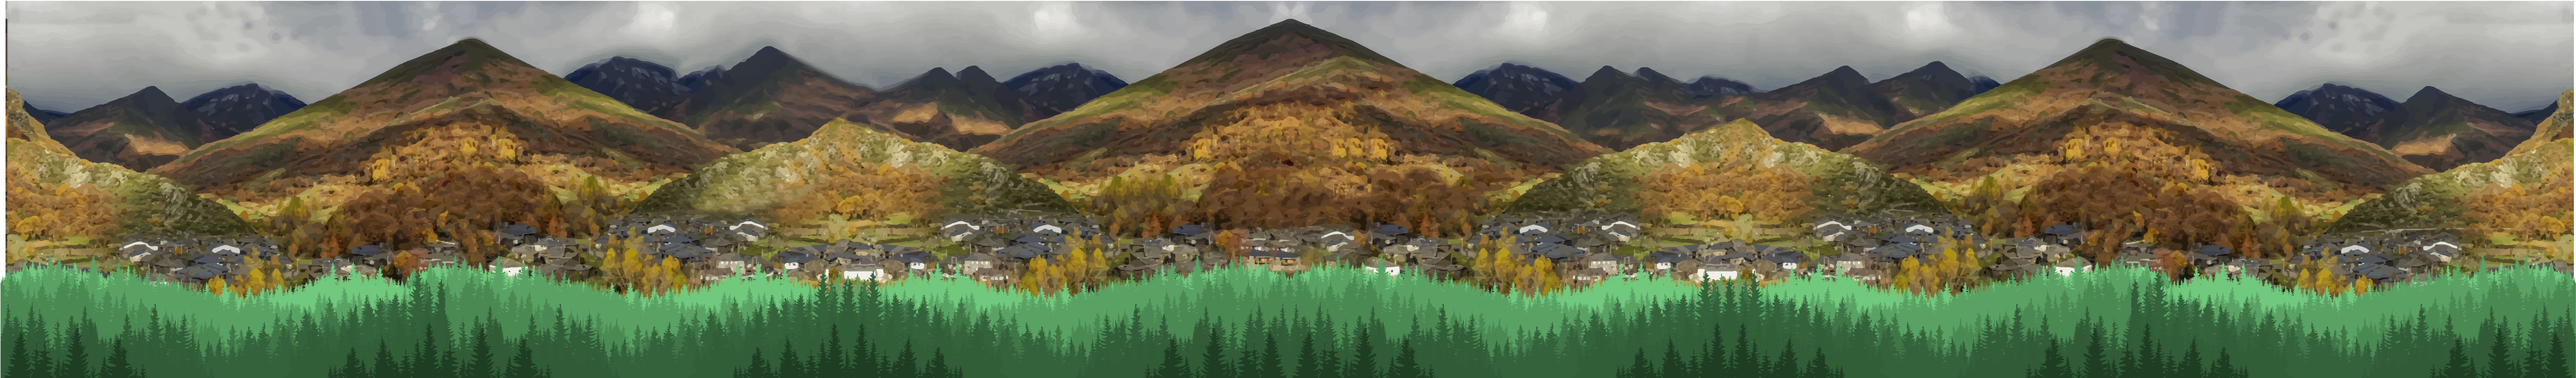
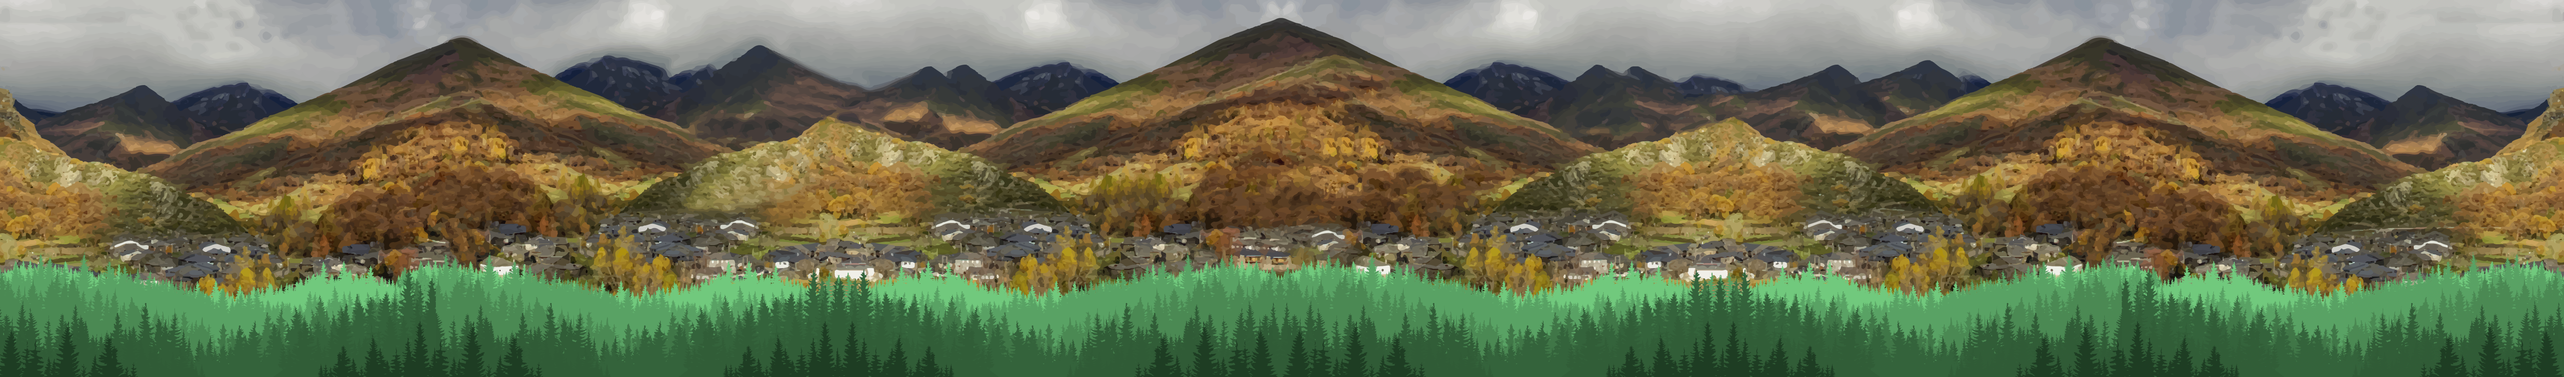
arreglado png y ajustado bordes

diff --git a/fase.py b/fase.py
@@ -286,7 +286,9 @@ class Sky:
 class Scenary:
     def __init__(self):
         self.imagen = ResourcesManager.LoadImage('level1/fondoNivel1.png', -1)
-        self.imagen = pygame.transform.scale(self.imagen, (900, 610))
+        
+        #TAMAÑO DEL FONDO AQUI (TAMBIEN TAMAÑO NIVEL)
+        self.imagen = pygame.transform.scale(self.imagen, (6000, 610))
 
         self.rect = self.imagen.get_rect()
         self.rect.bottom = HEIGHT_SCREEN
